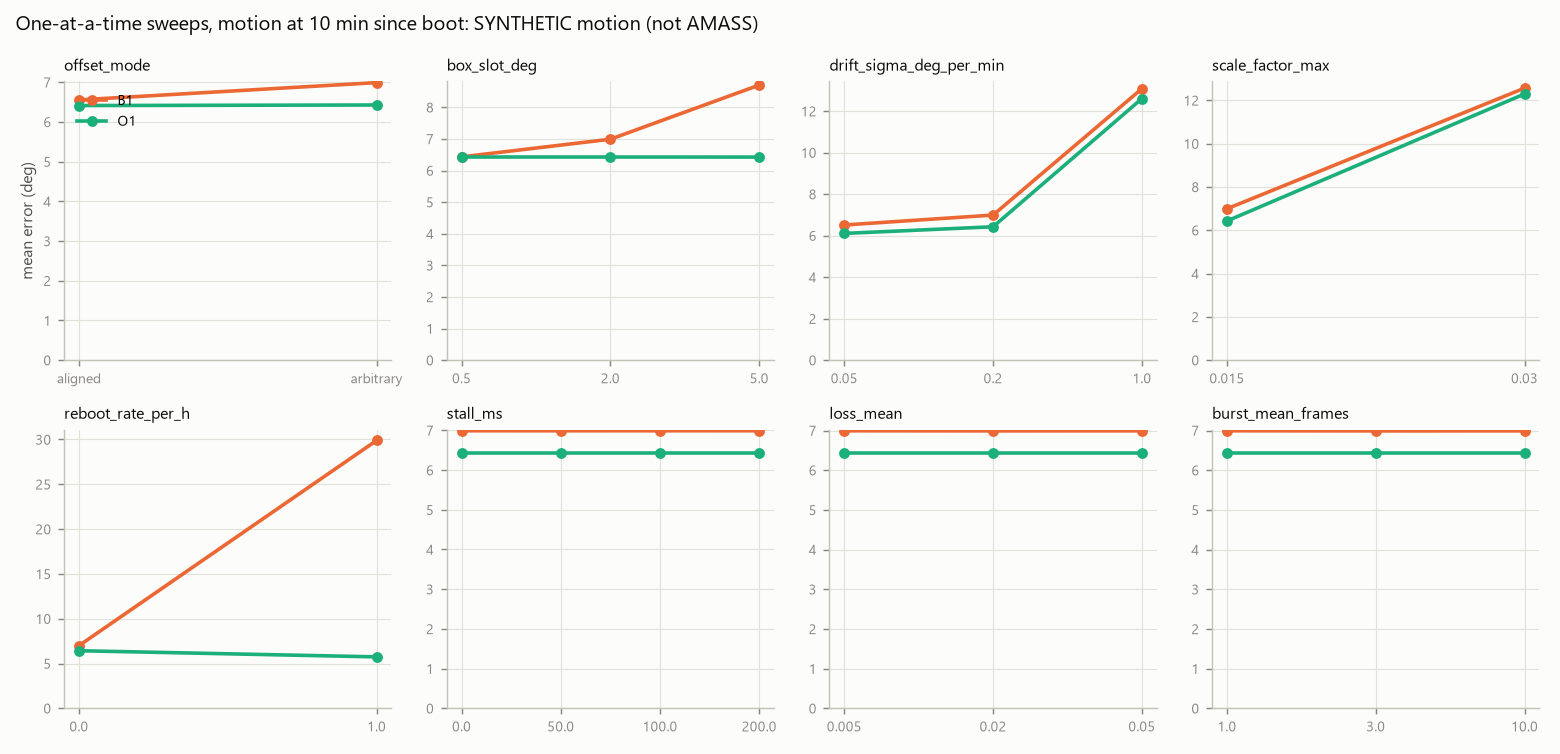
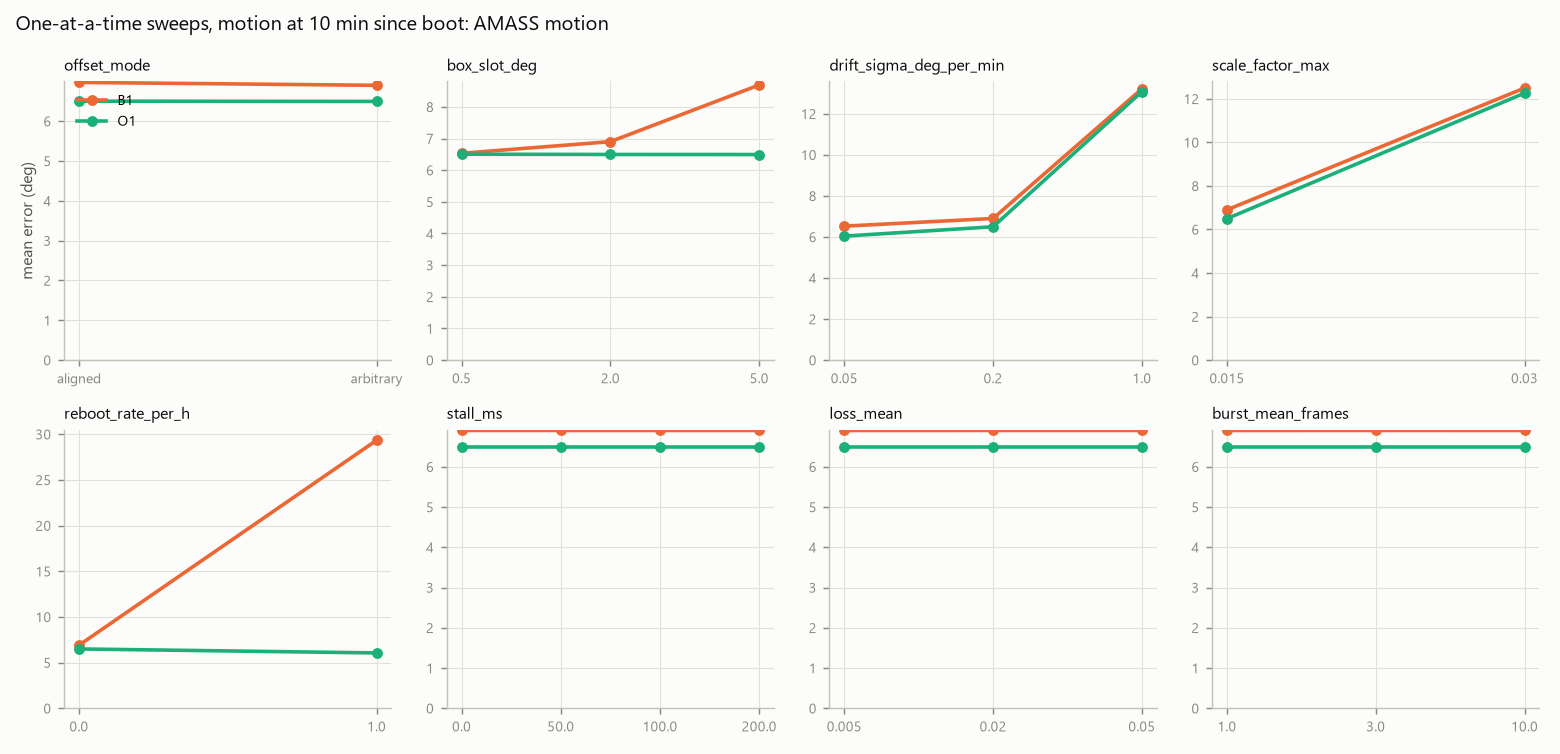
RESULTS_STEP1: the Step 1 baselines on AMASS
3,501 sessions from 767 sequences of 81 subjects (20 s windows; motion
1, 10 and 30 min after boot), default parameters, seed 1; runs at
2432062. Primary error at 10 min, mean / P95: B0 90.21 / 171.06,
B1 6.99 / 18.30, O1 6.55 / 17.63, O2 0. Replaces the synthetic tables.

diff --git a/docs/RESULTS_STEP1.md b/docs/RESULTS_STEP1.md
@@ -1,14 +1,12 @@
 # Step 1 results: baselines B0, B1, O1, O2
 
-> **PROVISIONAL: SYNTHETIC MOTION, NOT AMASS.** These numbers come from the simulator driven by simple
-> synthetic walking, turning-in-a-circle and standing clips (`mesqsim/synth.py`), because AMASS was not
-> downloaded yet. They show that the pipeline runs end to end and how large each baseline's error is
-> under the **assumed** parameters. They are not results about human motion. Rerun
-> `python scripts/make_results.py` after the AMASS download to replace them.
+> **AMASS motion, assumed parameters.** 38 of the 44 parameters are assumptions until the bench measures them
+> (`python -m mesqsim params`), so these numbers describe the configured model of the suit, not the
[1 lines of base64/hex data omitted]
 
-*Generated by `python scripts/make_results.py` (`--source synthetic --seed 1`). Do not edit by hand.*
+*Generated by `python scripts/make_results.py` (`--source amass --seed 1 --runs-commit 2432062`). Do not edit by hand.*
 
-**Run:** 2026-10-23 07:52 UTC; commit `441be49ed5cb`; config hash `b083b87e8724`; seed 1; default run folder `run_g441be49_cb083b87e_s1`.
+**Run:** 2026-11-15 08:09 UTC; runs simulated and scored at commit `24320626a0c1` (mesqsim/ and configs/ unchanged since), report written at commit `1b400e311675`; config hash `b083b87e8724`; seed 1; default run folder `run_g2432062_cb083b87e_s1`.
 
 ## Picture first
 
@@ -44,38 +42,38 @@ Default configuration ([configs/default.yaml](../configs/default.yaml)); all 40+
 | `dataset.window_s` | 20.0 | assumption |
 | `dataset.motion_start_min` | [1, 10, 30] | assumption |
 
-**Data:** 72 sessions from 12 source sequences (synthetic), splits test 2, train 8, val 2 (sequences). Baselines have no fitted parameters, so every split is scored; nothing is trained in Step 1. Errors are over the motion phase, all 14 joints, every 32 Hz step. Steps within a session are strongly correlated, so the independent unit is the **session** (column `sessions`): differences between baselines smaller than a few tenths of a degree are within sampling noise.
+**Data:** 3501 sessions from 767 source sequences of 81 subjects (amass); per split, sequences / subjects: test 117 / 15, train 572 / 57, val 78 / 9. Baselines have no fitted parameters, so every split is scored; nothing is trained in Step 1. Errors are over the motion phase, all 14 joints, every 32 Hz step. Steps within a session are strongly correlated, and sessions of one subject share that person's motion, so the independent unit is the **subject**; the `sessions` column counts sessions, not independent observations. Step 1 computes no intervals; the Step 2 analysis plan bootstraps over subjects.
 
 ## Table 1: primary metric, relative-heading error |wrap(δ̂ − δ)| (degrees)
 
 | baseline | min since boot | mean | median | p95 | sessions | steps |
 |---|---|---|---|---|---|---|
-| B0 | 1 | 88.10 | 84.08 | 170.51 | 24 | 15384 |
-| B0 | 10 | 91.96 | 94.15 | 173.58 | 24 | 15384 |
-| B0 | 30 | 94.68 | 96.03 | 172.99 | 24 | 15384 |
-| B1 | 1 | 4.04 | 3.14 | 10.34 | 24 | 15384 |
-| B1 | 10 | 6.70 | 5.25 | 17.16 | 24 | 15384 |
-| B1 | 30 | 12.40 | 9.78 | 34.25 | 24 | 15384 |
-| O1 | 1 | 3.37 | 2.68 | 9.47 | 24 | 15384 |
-| O1 | 10 | 6.25 | 5.02 | 16.07 | 24 | 15384 |
-| O1 | 30 | 12.46 | 10.10 | 34.55 | 24 | 15384 |
-| O2 | 1 | 0.00 | 0.00 | 0.00 | 24 | 15384 |
-| O2 | 10 | 0.00 | 0.00 | 0.00 | 24 | 15384 |
-| O2 | 30 | 0.00 | 0.00 | 0.00 | 24 | 15384 |
+| B0 | 1 | 89.83 | 89.97 | 170.94 | 1167 | 748047 |
+| B0 | 10 | 90.21 | 89.72 | 171.06 | 1167 | 748047 |
+| B0 | 30 | 90.74 | 90.60 | 171.70 | 1167 | 748047 |
+| B1 | 1 | 4.03 | 3.33 | 10.16 | 1167 | 748047 |
+| B1 | 10 | 6.99 | 5.53 | 18.30 | 1167 | 748047 |
+| B1 | 30 | 12.06 | 9.65 | 31.49 | 1167 | 748047 |
+| O1 | 1 | 3.26 | 2.62 | 8.46 | 1167 | 748047 |
+| O1 | 10 | 6.55 | 5.06 | 17.63 | 1167 | 748047 |
+| O1 | 30 | 11.81 | 9.48 | 30.86 | 1167 | 748047 |
+| O2 | 1 | 0.00 | 0.00 | 0.00 | 1167 | 748047 |
+| O2 | 10 | 0.00 | 0.00 | 0.00 | 1167 | 748047 |
+| O2 | 30 | 0.00 | 0.00 | 0.00 | 1167 | 748047 |
 
 ## Table 2: by joint type (mean / P95, degrees)
 
 | joint_type | baseline | 1 min | 10 min | 30 min |
 |---|---|---|---|---|
-| 2dof | B0 | 80.65 / 167.41 | 97.34 / 176.26 | 97.09 / 170.71 |
-| 2dof | B1 | 4.12 / 10.55 | 6.74 / 15.97 | 14.24 / 39.83 |
-| 2dof | O1 | 3.27 / 8.79 | 6.41 / 17.03 | 13.78 / 36.95 |
-| 3dof | B0 | 90.60 / 170.89 | 88.55 / 172.89 | 92.70 / 169.61 |
-| 3dof | B1 | 4.20 / 9.86 | 6.62 / 17.44 | 9.86 / 25.56 |
-| 3dof | O1 | 3.59 / 9.80 | 6.11 / 16.30 | 10.42 / 26.46 |
-| hinge | B0 | 102.93 / 173.30 | 86.06 / 168.62 | 93.38 / 175.95 |
-| hinge | B1 | 3.36 / 8.46 | 6.81 / 16.58 | 14.51 / 39.51 |
-| hinge | O1 | 3.06 / 8.65 | 6.18 / 14.79 | 14.64 / 41.79 |
+| 2dof | B0 | 89.64 / 170.73 | 90.43 / 170.56 | 89.86 / 171.51 |
+| 2dof | B1 | 4.07 / 10.34 | 6.97 / 18.27 | 11.93 / 31.21 |
+| 2dof | O1 | 3.28 / 8.58 | 6.56 / 17.42 | 11.71 / 30.60 |
+| 3dof | B0 | 89.83 / 170.44 | 90.39 / 171.92 | 91.33 / 171.41 |
+| 3dof | B1 | 3.99 / 10.05 | 7.00 / 18.36 | 12.12 / 32.02 |
+| 3dof | O1 | 3.23 / 8.38 | 6.53 / 17.77 | 11.89 / 31.16 |
+| hinge | B0 | 90.40 / 172.48 | 88.99 / 170.11 | 91.59 / 172.98 |
+| hinge | B1 | 4.01 / 9.84 | 6.98 / 18.32 | 12.25 / 30.89 |
+| hinge | O1 | 3.27 / 8.34 | 6.58 / 18.03 | 11.88 / 30.63 |
 
 O2 is 0 everywhere by construction (check 12.1).
 
@@ -85,48 +83,48 @@ Includes fusion tilt error and quantisation, so even O2 is not zero here.
 
 | baseline | min since boot | mean | median | p95 | sessions | steps |
 |---|---|---|---|---|---|---|
-| B0 | 1 | 88.10 | 84.00 | 170.20 | 24 | 15384 |
-| B0 | 10 | 91.97 | 94.14 | 174.07 | 24 | 15384 |
-| B0 | 30 | 94.68 | 96.37 | 172.61 | 24 | 15384 |
-| B1 | 1 | 4.32 | 3.45 | 10.45 | 24 | 15384 |
-| B1 | 10 | 6.84 | 5.45 | 17.26 | 24 | 15384 |
-| B1 | 30 | 12.49 | 9.95 | 34.61 | 24 | 15384 |
-| O1 | 1 | 3.67 | 2.86 | 9.47 | 24 | 15384 |
-| O1 | 10 | 6.42 | 5.08 | 16.16 | 24 | 15384 |
-| O1 | 30 | 12.55 | 10.17 | 34.55 | 24 | 15384 |
-| O2 | 1 | 1.13 | 1.09 | 1.97 | 24 | 15384 |
-| O2 | 10 | 1.14 | 1.09 | 2.01 | 24 | 15384 |
-| O2 | 30 | 1.13 | 1.08 | 1.96 | 24 | 15384 |
+| B0 | 1 | 89.85 | 89.93 | 170.95 | 1167 | 748047 |
+| B0 | 10 | 90.22 | 89.74 | 171.08 | 1167 | 748047 |
+| B0 | 30 | 90.75 | 90.59 | 171.69 | 1167 | 748047 |
+| B1 | 1 | 4.28 | 3.52 | 10.27 | 1167 | 748047 |
+| B1 | 10 | 7.16 | 5.65 | 18.40 | 1167 | 748047 |
+| B1 | 30 | 12.16 | 9.70 | 31.52 | 1167 | 748047 |
+| O1 | 1 | 3.56 | 2.86 | 8.65 | 1167 | 748047 |
+| O1 | 10 | 6.73 | 5.17 | 17.74 | 1167 | 748047 |
+| O1 | 30 | 11.92 | 9.56 | 30.88 | 1167 | 748047 |
+| O2 | 1 | 1.13 | 1.09 | 1.98 | 1167 | 748047 |
+| O2 | 10 | 1.14 | 1.09 | 1.99 | 1167 | 748047 |
+| O2 | 30 | 1.15 | 1.09 | 1.98 | 1167 | 748047 |
 
 ## Table 4: one-at-a-time sweeps (mean / P95 of the primary metric, degrees)
 
 Motion at 10 min since boot, one window per sequence. Every other parameter at its default; the same
-session seeds for every value. Run folders: `run_g441be49_cecb245a7_s1`, `run_g441be49_cbf35e7a1_s1`, `run_g441be49_c96d6860e_s1`, ….
+session seeds for every value. Run folders: `run_g2432062_cecb245a7_s1`, `run_g2432062_cbf35e7a1_s1`, `run_g2432062_c96d6860e_s1`, ….
 
 | parameter | value | B0 | B1 | O1 |
 |---|---|---|---|---|
-| error_model.offset_mode | aligned | 6.60 / 16.61 | 6.55 / 16.74 | 6.41 / 16.31 |
-| error_model.offset_mode | arbitrary | 89.52 / 170.17 | 6.99 / 17.53 | 6.43 / 16.31 |
-| error_model.box_slot_deg | 0.50 | 89.52 / 170.16 | 6.43 / 16.31 | 6.43 / 16.32 |
-| error_model.box_slot_deg | 2.00 | 89.52 / 170.17 | 6.99 / 17.53 | 6.43 / 16.31 |
-| error_model.box_slot_deg | 5.00 | 89.52 / 170.20 | 8.70 / 21.89 | 6.43 / 16.31 |
-| error_model.drift_sigma_deg_per_min | 0.05 | 89.46 / 171.58 | 6.51 / 15.76 | 6.11 / 15.26 |
-| error_model.drift_sigma_deg_per_min | 0.20 | 89.52 / 170.17 | 6.99 / 17.53 | 6.43 / 16.31 |
-| error_model.drift_sigma_deg_per_min | 1.00 | 89.34 / 170.68 | 13.08 / 31.10 | 12.60 / 31.58 |
-| error_model.scale_factor_max | 0.01 | 89.52 / 170.17 | 6.99 / 17.53 | 6.43 / 16.31 |
-| error_model.scale_factor_max | 0.03 | 90.47 / 172.55 | 12.56 / 32.05 | 12.30 / 31.10 |
-| error_model.reboot_rate_per_h | 1.00 | 87.49 / 173.23 | 29.89 / 144.84 | 5.74 / 15.56 |
-| error_model.reboot_rate_per_h | 0.00 | 89.52 / 170.17 | 6.99 / 17.53 | 6.43 / 16.31 |
-| timing.stall_ms | 0.00 | 89.52 / 170.17 | 6.99 / 17.53 | 6.43 / 16.31 |
-| timing.stall_ms | 50.00 | 89.52 / 170.17 | 6.99 / 17.52 | 6.43 / 16.31 |
-| timing.stall_ms | 100.00 | 89.52 / 170.17 | 6.99 / 17.53 | 6.43 / 16.31 |
-| timing.stall_ms | 200.00 | 89.52 / 170.17 | 6.99 / 17.54 | 6.43 / 16.31 |
-| radio.loss_mean | 0.05 | 89.52 / 170.17 | 6.99 / 17.53 | 6.43 / 16.31 |
-| radio.loss_mean | 0.01 | 89.52 / 170.17 | 6.99 / 17.53 | 6.43 / 16.31 |
-| radio.loss_mean | 0.02 | 89.52 / 170.17 | 6.99 / 17.53 | 6.43 / 16.31 |
-| radio.burst_mean_frames | 1.00 | 89.52 / 170.17 | 6.99 / 17.54 | 6.43 / 16.31 |
-| radio.burst_mean_frames | 3.00 | 89.52 / 170.17 | 6.99 / 17.53 | 6.43 / 16.31 |
-| radio.burst_mean_frames | 10.00 | 89.52 / 170.17 | 6.99 / 17.52 | 6.43 / 16.31 |
+| error_model.offset_mode | aligned | 6.96 / 18.34 | 6.97 / 18.34 | 6.50 / 17.55 |
+| error_model.offset_mode | arbitrary | 90.73 / 171.26 | 6.90 / 18.28 | 6.50 / 17.54 |
+| error_model.box_slot_deg | 0.5 | 90.73 / 171.27 | 6.53 / 17.66 | 6.50 / 17.56 |
+| error_model.box_slot_deg | 2 | 90.73 / 171.26 | 6.90 / 18.28 | 6.50 / 17.54 |
+| error_model.box_slot_deg | 5 | 90.72 / 171.25 | 8.69 / 22.12 | 6.49 / 17.56 |
+| error_model.drift_sigma_deg_per_min | 0.05 | 90.70 / 171.45 | 6.53 / 17.77 | 6.04 / 16.89 |
+| error_model.drift_sigma_deg_per_min | 0.2 | 90.73 / 171.26 | 6.90 / 18.28 | 6.50 / 17.54 |
+| error_model.drift_sigma_deg_per_min | 1 | 90.83 / 170.52 | 13.22 / 32.53 | 13.08 / 31.96 |
+| error_model.scale_factor_max | 0.015 | 90.73 / 171.26 | 6.90 / 18.28 | 6.50 / 17.54 |
+| error_model.scale_factor_max | 0.03 | 90.68 / 171.07 | 12.50 / 34.54 | 12.26 / 34.12 |
+| error_model.reboot_rate_per_h | 1 | 91.31 / 171.42 | 29.33 / 146.72 | 6.06 / 16.89 |
+| error_model.reboot_rate_per_h | 0 | 90.73 / 171.26 | 6.90 / 18.28 | 6.50 / 17.54 |
+| timing.stall_ms | 0 | 90.73 / 171.26 | 6.90 / 18.28 | 6.50 / 17.54 |
+| timing.stall_ms | 50 | 90.73 / 171.26 | 6.90 / 18.28 | 6.50 / 17.54 |
+| timing.stall_ms | 100 | 90.73 / 171.26 | 6.90 / 18.28 | 6.50 / 17.54 |
+| timing.stall_ms | 200 | 90.73 / 171.26 | 6.90 / 18.28 | 6.50 / 17.54 |
+| radio.loss_mean | 0.05 | 90.73 / 171.26 | 6.90 / 18.29 | 6.50 / 17.54 |
+| radio.loss_mean | 0.005 | 90.73 / 171.26 | 6.90 / 18.29 | 6.50 / 17.54 |
+| radio.loss_mean | 0.02 | 90.73 / 171.26 | 6.90 / 18.28 | 6.50 / 17.54 |
+| radio.burst_mean_frames | 1 | 90.73 / 171.26 | 6.90 / 18.29 | 6.50 / 17.54 |
+| radio.burst_mean_frames | 3 | 90.73 / 171.26 | 6.90 / 18.28 | 6.50 / 17.54 |
+| radio.burst_mean_frames | 10 | 90.73 / 171.26 | 6.90 / 18.28 | 6.50 / 17.54 |
 
 ## Figures
 
